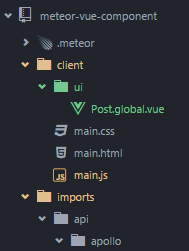
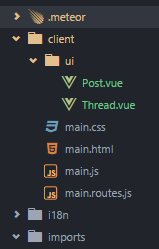
Deprecated use of .global.vue

diff --git a/packages/vue-component/plugin/vue-compiler.js b/packages/vue-component/plugin/vue-compiler.js
@@ -126,10 +126,13 @@ VueComponentCompiler = class VueComponentCompiler extends CachingCompiler {
     }
 
     // Auto register
-    if (globalFileNameReg.test(inputFilePath)) {
+    let isGlobalName = globalFileNameReg.test(inputFilePath);
+    let isOutsideImports = inputFilePath.split('/').indexOf('imports') === -1;
+    if (isOutsideImports || isGlobalName) {
+      let ext = (isGlobalName?'.global':'') + '.vue';
 
       let name = Plugin.path.basename(inputFilePath);
-      name = name.substring(0, name.lastIndexOf('.global.vue'));
+      name = name.substring(0, name.lastIndexOf(ext));
 
       // Remove special characters
       name = name.replace(nonWordCharReg, '');

diff --git a/packages/vue-component/package.js b/packages/vue-component/package.js
@@ -1,6 +1,6 @@
 Package.describe({
   name: 'akryum:vue-component',
-  version: '0.4.0',
+  version: '0.5.0',
   summary: 'VueJS single-file components that hot-reloads',
   git: 'https://github.com/Akryum/meteor-vue-component',
   documentation: 'README.md'

diff --git a/packages/vue-component/README.md b/packages/vue-component/README.md
@@ -100,15 +100,13 @@ import Post from '/imports/ui/Post.vue';
 Vue.component('post', Post);
 ```
 
-### Global vue components
+### Automatic components registration
 
-`.global.vue` files outside of the `imports` directory are automatically registered as custom tags. The default tag name is the name of the file in kebab-case, and you can set your own with the `name` attribute in the component options.
+`.vue` files outside of the `imports` directory are automatically registered as custom tags. The default tag name is the name of the file in kebab-case, and you can set your own with the `name` attribute in the component options.
 
 ![screenshot](./global_component_file_tree.png)
 
-In the example above, the `Post.global.vue` component is automatically available in your vue templates as `<post>`.
-
-**The global component files shouldn't be inside an `imports` directory, or else they will not be automatically added to your app.**
+In the example above, the `Post.vue` component is automatically available in your vue templates as `<post>`.
 
 You can override the default naming behavior by setting the `name` option in your component:
 
@@ -130,6 +128,8 @@ If your component files are in a package, they will have the `packageName` attri
 ```javascript
 let packageName = this.$options.packageName;
 ```
+
+It will be null if the components is in your application code.
 
 ---
 

diff --git a/packages/vue-component/CHANGELOG.md b/packages/vue-component/CHANGELOG.md
@@ -1,5 +1,9 @@
 # Changelog
 
+## 0.5.0 - 2016/06/28
+
+ - No longer requires component files to be named `.global.vue` outside the `imports` folder.
+
 ## 0.4.0 - 2016/06/24
 
  - Added akryum:vue-i18n support.
